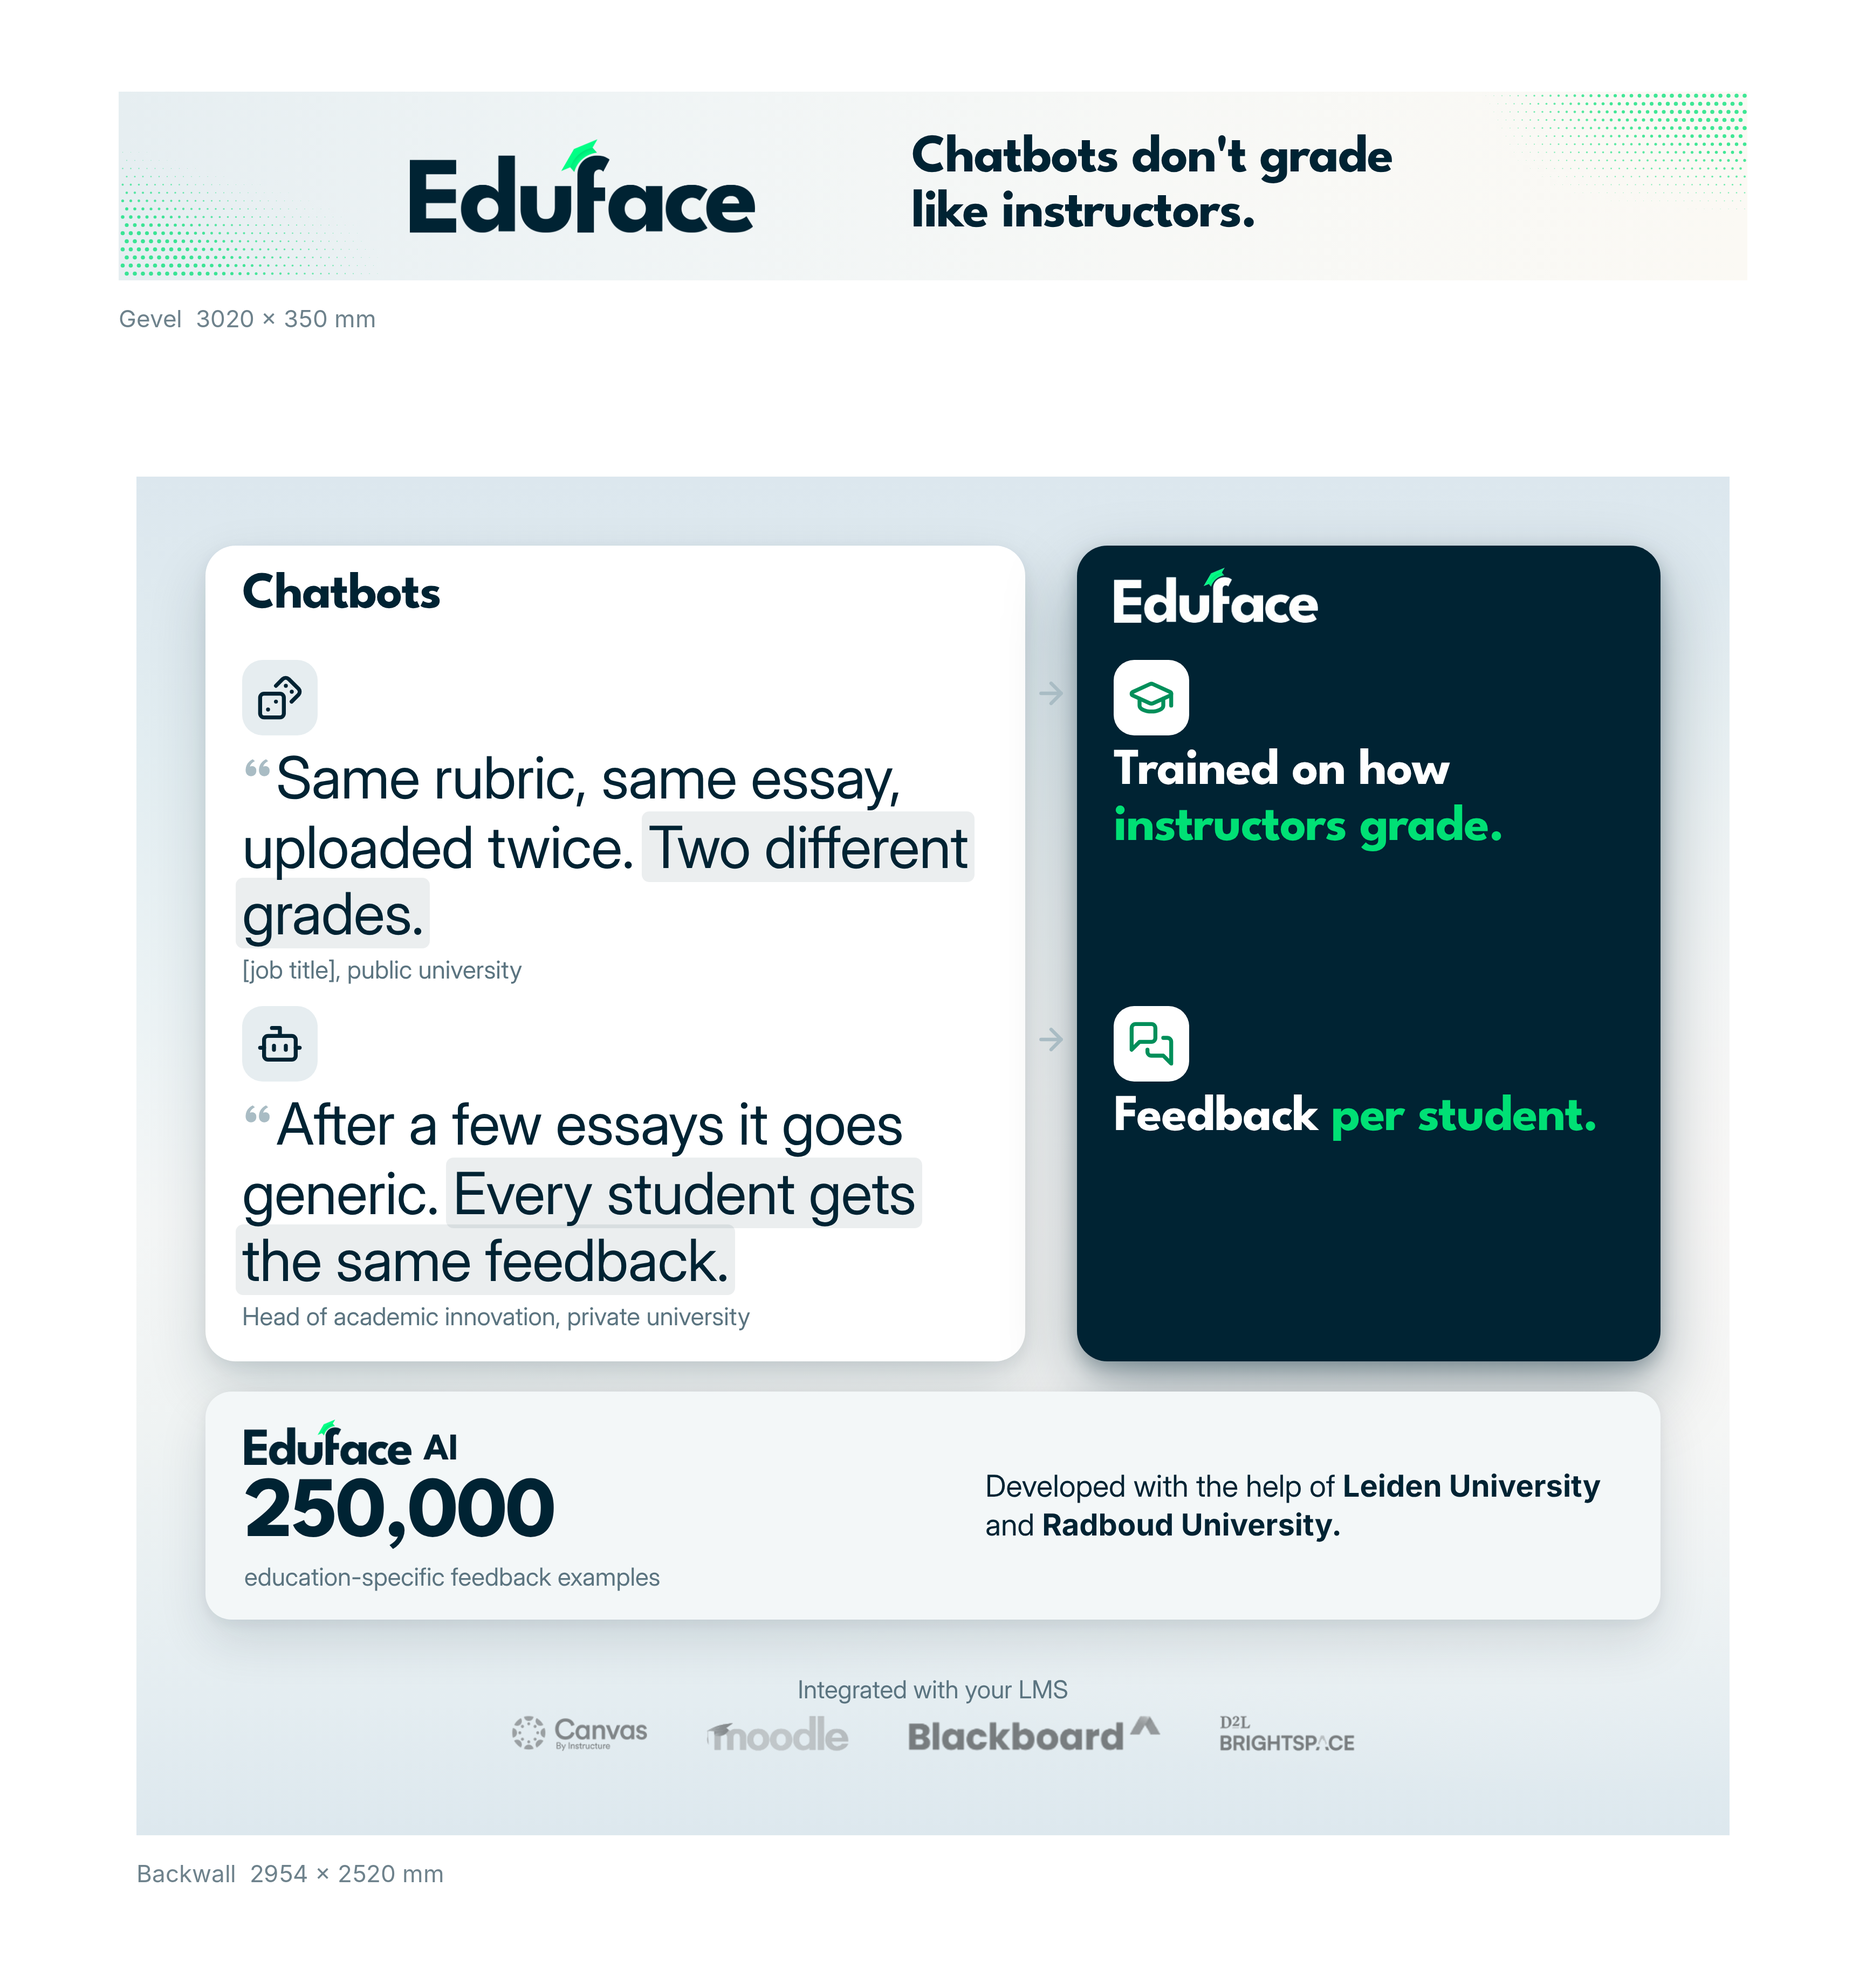
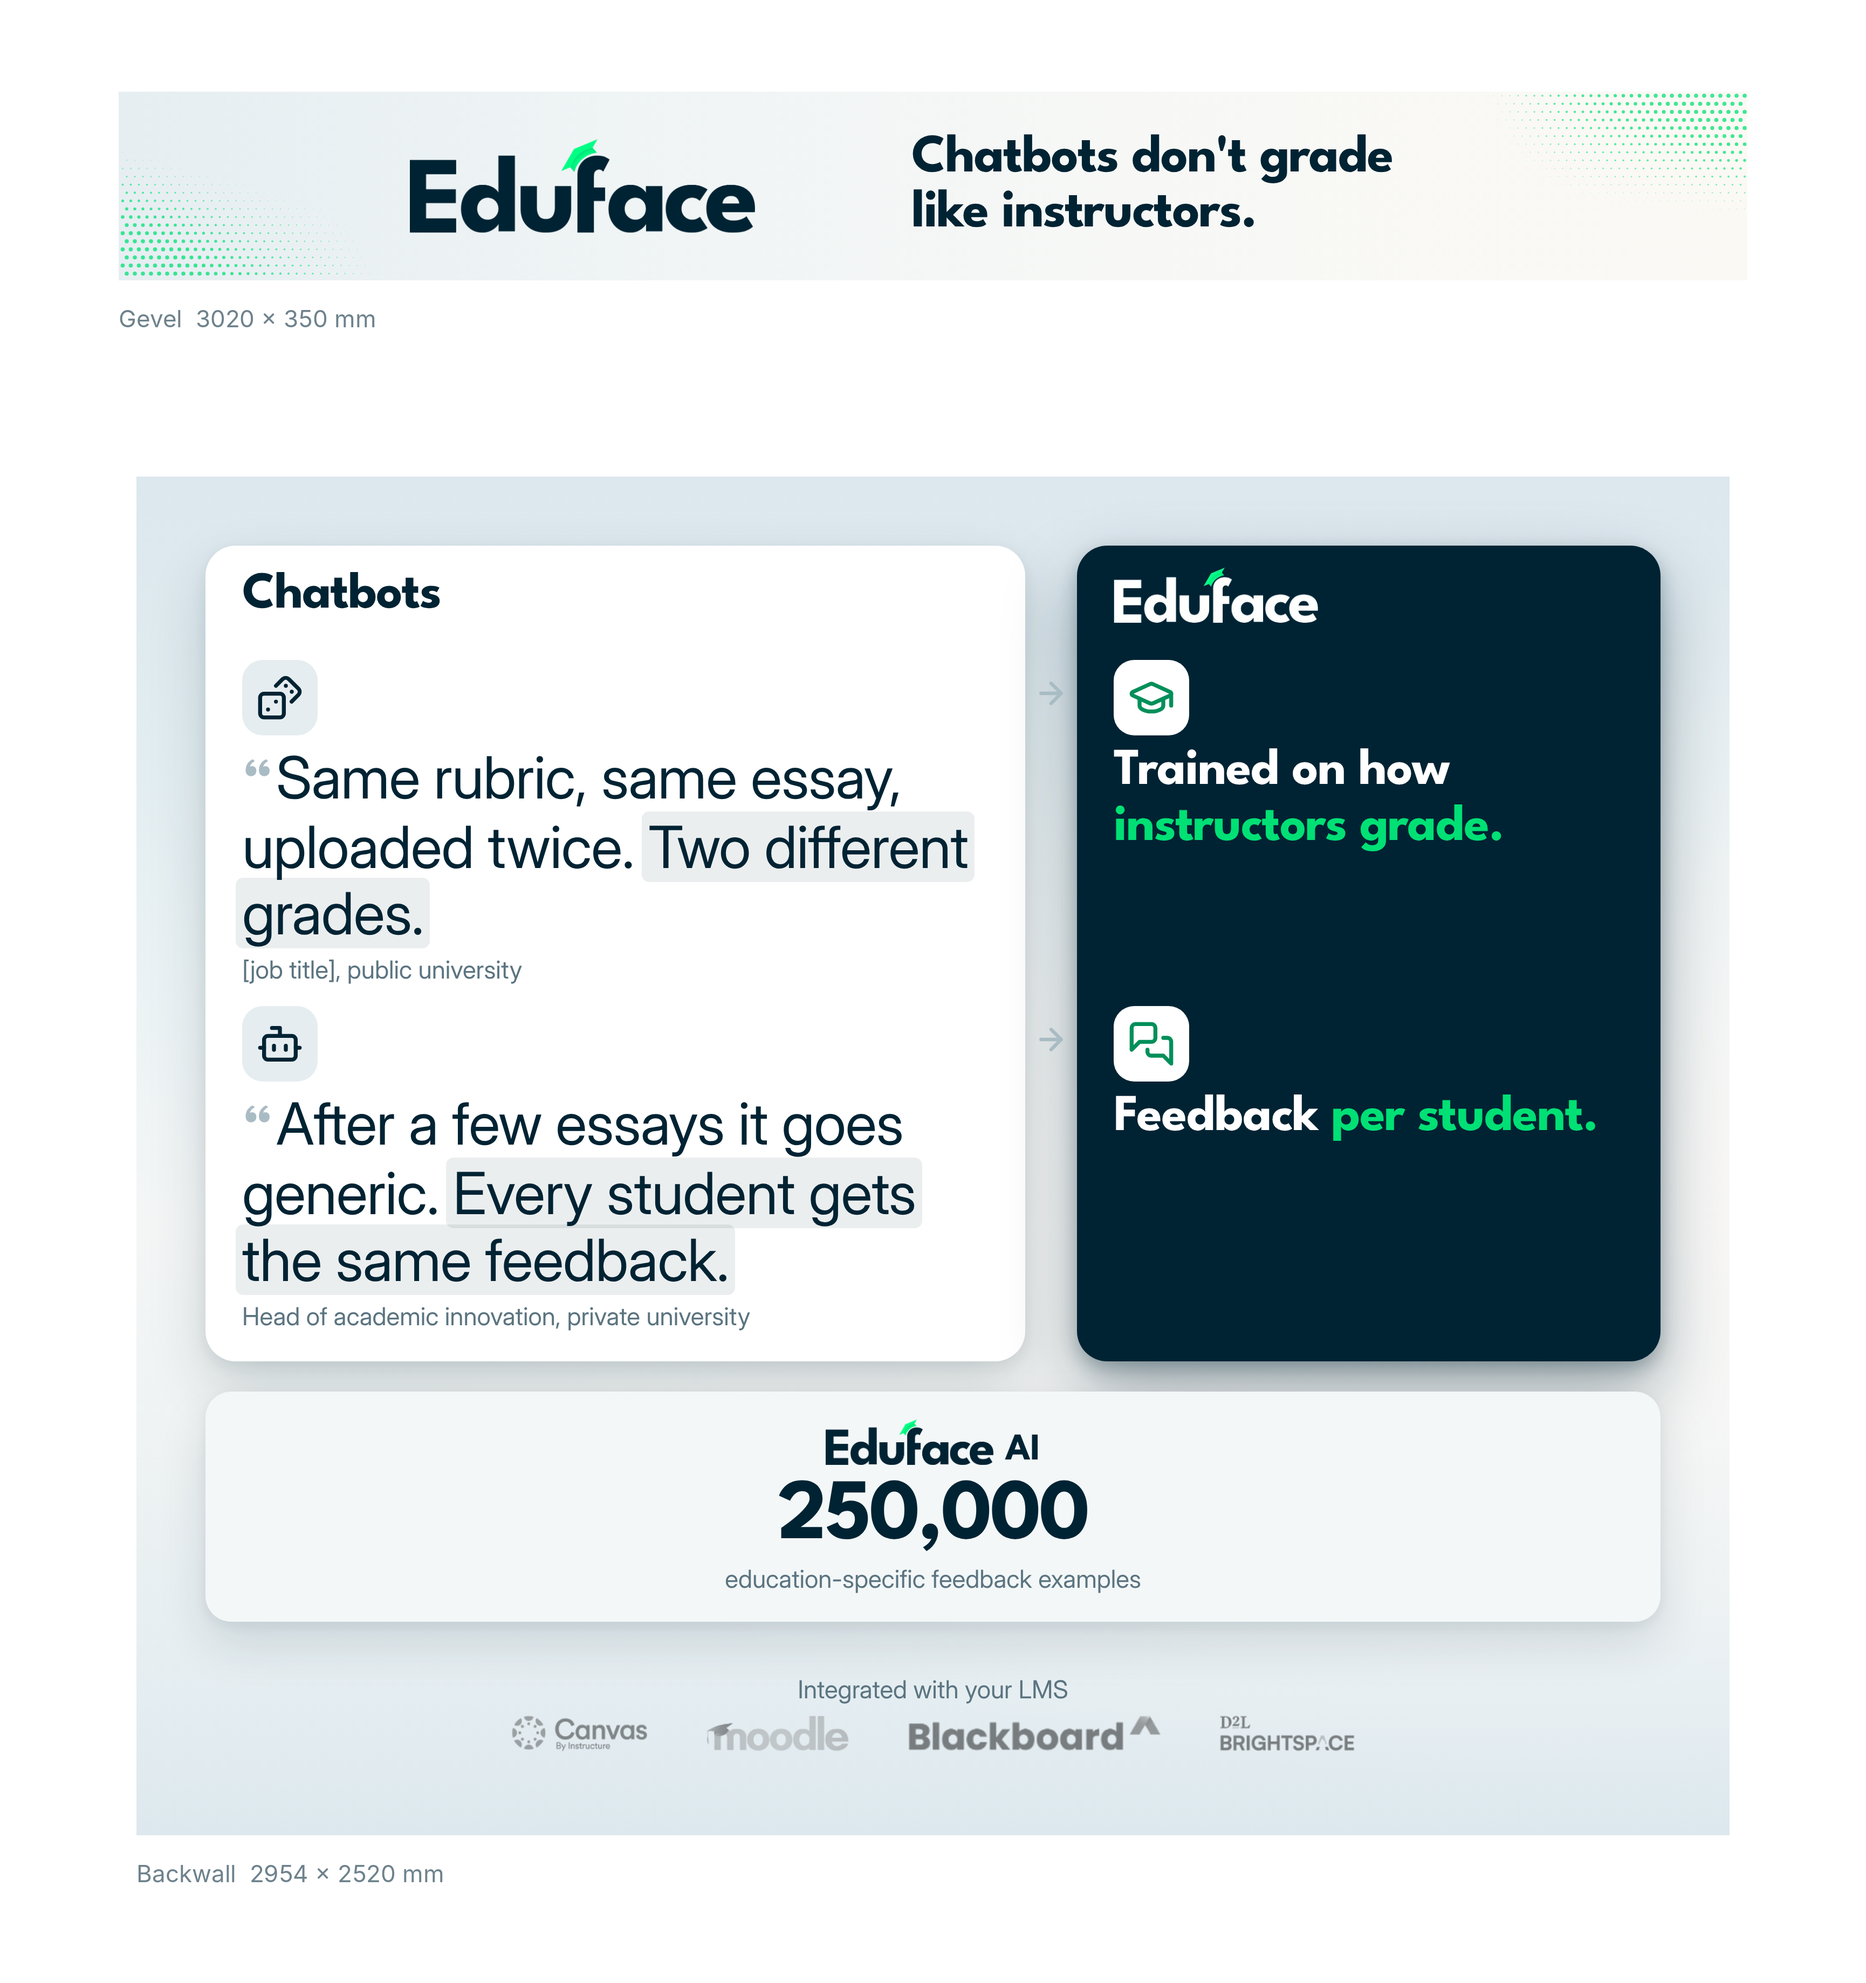
Backwall: Leiden/Radboud-regel weg, Eduface AI-kaart gecentreerd
Claude-Session: https://claude.ai/code/session_011t24oRcD5DFuXzKigdVhtb

Changed region(s): [[0.4058, 0.7129, 0.8428, 0.8059], [0.1249, 0.7129, 0.3121, 0.8059], [0.3121, 0.7749, 0.3434, 0.8059]]

diff --git a/creatives/beurs-backwall/backwall.html b/creatives/beurs-backwall/backwall.html
@@ -53,9 +53,9 @@
   .eh span { color: var(--g); }
 
   /* Eduface AI onder de twee vlakken, over de volle breedte (zoals op de afbeelding) */
-  .ai { grid-column: 1 / 4; grid-row: 4; margin-top: 56px; background: var(--i50); border-radius: 48px; padding: 52px 72px; display: flex; align-items: center; justify-content: space-between; gap: 80px;
+  .ai { grid-column: 1 / 4; grid-row: 4; margin-top: 56px; background: var(--i50); border-radius: 48px; padding: 52px 72px; display: flex; align-items: center; justify-content: center; text-align: center;
         box-shadow: 0 8px 22px rgba(0,35,51,.06), 0 40px 90px rgba(0,35,51,.12); }
-  .ai .top { display: flex; align-items: flex-end; gap: 22px; }
+  .ai .top { display: inline-flex; align-items: flex-end; gap: 22px; }
   .ai .top img { height: 84px; width: auto; }
   .ai .top .t { font: 700 70px/.76 "League Spartan"; color: var(--navy); letter-spacing: -.01em; }
   .ai .n { font: 700 160px/1 "League Spartan"; letter-spacing: -.025em; margin-top: 14px; color: var(--navy); }
@@ -90,8 +90,7 @@ Q.forEach((q,i)=>{
   h+=`<div class="cm r${i+1}">${ic('arrow-right')}</div>`;
   h+=`<div class="cr pair r${i+1}"><div class="it">${ic(A[i].ic)}</div><div class="eh">${A[i].h}</div></div>`;
 });
-h+=`<div class="ai"><div><div class="top"><img src="../../Design/Merk/logos/logo_navy.png"><div class="t">AI</div></div><div class="n">250,000</div><div class="l">education-specific feedback examples</div></div>
-  <div class="d">Developed with the help of <b>Leiden University</b> and <b>Radboud University.</b></div></div>`;
+h+=`<div class="ai"><div><div class="top"><img src="../../Design/Merk/logos/logo_navy.png"><div class="t">AI</div></div><div class="n">250,000</div><div class="l">education-specific feedback examples</div></div></div>`;
 const lms=`<div class="lms"><div class="lab">Integrated with your LMS</div><div class="row"><img src="assets/logos/lms-canvas.png"><img src="assets/logos/lms-moodle.png"><img src="assets/logos/lms-blackboard.png"><img src="assets/logos/lms-brightspace.png"></div></div>`;
 document.getElementById('layer-content').innerHTML=`<div class="g">${h}</div>${lms}`;
 </script>
